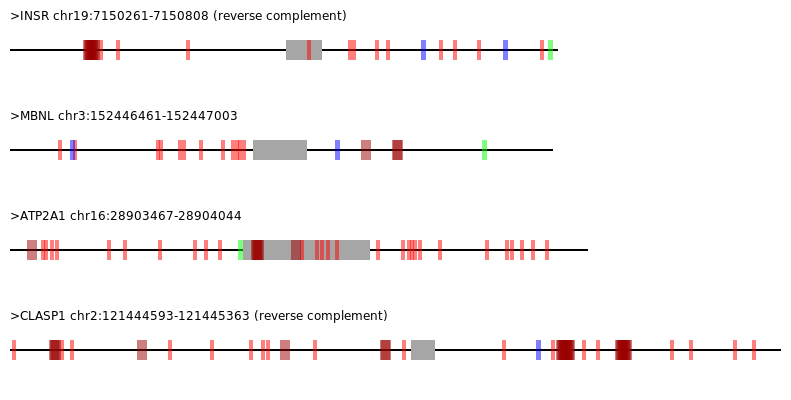
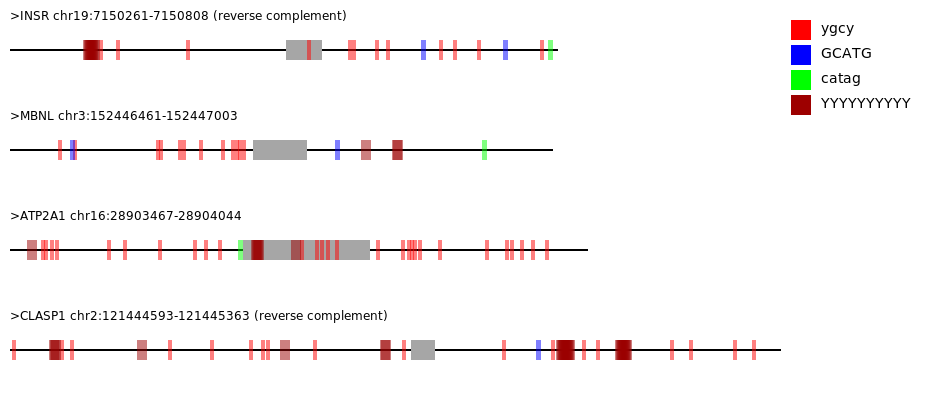
progress - color key made

diff --git a/motif-mark-oop.py b/motif-mark-oop.py
@@ -8,12 +8,15 @@ import bioinfo
 #update with argparse when ready
 motifs_file:str = 'Fig_1_motifs.txt'
 fasta_file:str = 'Figure_1.fasta'
+# motifs_file:str = 'Fig_1_motifs.txt'
+# fasta_file:str = 'test.fasta'
 
 prefix:str = fasta_file.split(".")[0] #save the prefix of the input fasta file to use as the output png file name
 
 
 #initialize variables
 motif_dict:dict = {} #keys are regex motifs and values are the original sequence lengths
+motif_list:list = []
 longest_gene:int = 0
 num_genes:int = 0
 
@@ -26,14 +29,14 @@ seq_length:int = 0
 is_DNA_file = bioinfo.validate_base_file(fasta_file) #True if fasta is a DNA file. False if RNA
 
 #make color pallet
-color1:tuple = (1, 0, 0, 0.5) #red
-color2:tuple = (0, 0, 1, 0.5) #blue
-color3:tuple = (0, 1, 0, 0.5) #green
-color4:tuple = (0.616, 0,0, 0.5) #purple
-color5:tuple = (1, 0.616, 0, 0.5) #orange
-color6:tuple = (1, 0, 1, 0.5) #pink
-color7:tuple = (1, 1, 0, 0.5) #yellow
-color8:tuple = (0, 0.925, 1, 0.5) #light blue 
+color1:tuple = (1, 0, 0) #red
+color2:tuple = (0, 0, 1) #blue
+color3:tuple = (0, 1, 0) #green
+color4:tuple = (0.616, 0,0) #purple
+color5:tuple = (1, 0.616, 0) #orange
+color6:tuple = (1, 0, 1) #pink
+color7:tuple = (1, 1, 0) #yellow
+color8:tuple = (0, 0.925, 1) #light blue 
 color_pallet:list = [color1, color2, color3, color4, color5, color6, color7, color8]
 
 
@@ -51,11 +54,11 @@ class Motif:
     def draw_motif(self):
         #draw the motif based on the start and the length
         context.rectangle(self.start+10, self.gene_position, self.length, 20)        #(x0, y0, length, height)
-        context.set_source_rgba(*self.color) #unpack the tuple for each value here
+        context.set_source_rgba(*self.color, 0.5) #unpack the tuple for each value here
         context.fill()
 
 
-with open(motifs_file, "r") as m_file: #write all motifs into a list
+with open(motifs_file, "r") as m_file: #write all motifs into a list and dictionary
     for line in (m_file):
         seq = line.strip()
 
@@ -68,6 +71,8 @@ with open(motifs_file, "r") as m_file: #write all motifs into a list
         regex_motif = bioinfo.motif_to_regex(seq, DNAflag = is_DNA_file)
 
         motif_dict[regex_motif.lower()] = len(seq) #add the regex motif to the motif list
+        motif_list.append(seq)
+
 
 with open(fasta_file, "r") as f_file: #grab important info about each sequence ans store it in a dictionary
     for line in (f_file):
@@ -103,7 +108,7 @@ with open(fasta_file, "r") as f_file: #grab important info about each sequence a
 
 # draw the image canvas based on the number of genes and the longest gene length
 height:int = num_genes *100
-width:int = longest_gene + 20
+width:int = longest_gene + 170
 image_file_name:str = prefix + ".png"
 surface = cairo.ImageSurface(cairo.FORMAT_ARGB32, width, height)
 context = cairo.Context(surface)
@@ -157,6 +162,38 @@ for header in gene_dict.keys():
     #move the y positions to the next exon
     y1 += 100
     text_start += 100
+
+#make a key
+#pick a start for the motif key color boxes and text
+key_box_start_x = longest_gene +20
+key_box_start_y = 20
+write_motif_x = longest_gene + 50
+write_motif_y = 33
+
+    #for each motif in the LIST
+for i, motif in enumerate(motif_list):
+    
+    #draw a rectangle of the color
+    context.rectangle(key_box_start_x, key_box_start_y, 20, 20)        #(x0, y0, length, height)
+    context.set_source_rgba(*color_pallet[i], 1) #unpack the tuple for each value here
+    context.fill()
+
+    #write the ORIGINAL motif sequence next to it
+    context.set_font_size(14)
+    context.set_source_rgb(0,0,0)
+    context.select_font_face("Arial", cairo.FONT_SLANT_NORMAL, cairo.FONT_WEIGHT_NORMAL)
+    context.move_to(write_motif_x, write_motif_y) #motif text start
+    context.show_text(motif_list[i])
+    context.stroke() #write out the motif
+
+    #increment the start poeint for the next sequence
+    key_box_start_y += 25
+    write_motif_y += 25 
+            
+
+    #set up argparse
+    #check for camel case
+
 
 surface.write_to_png(image_file_name)
 
